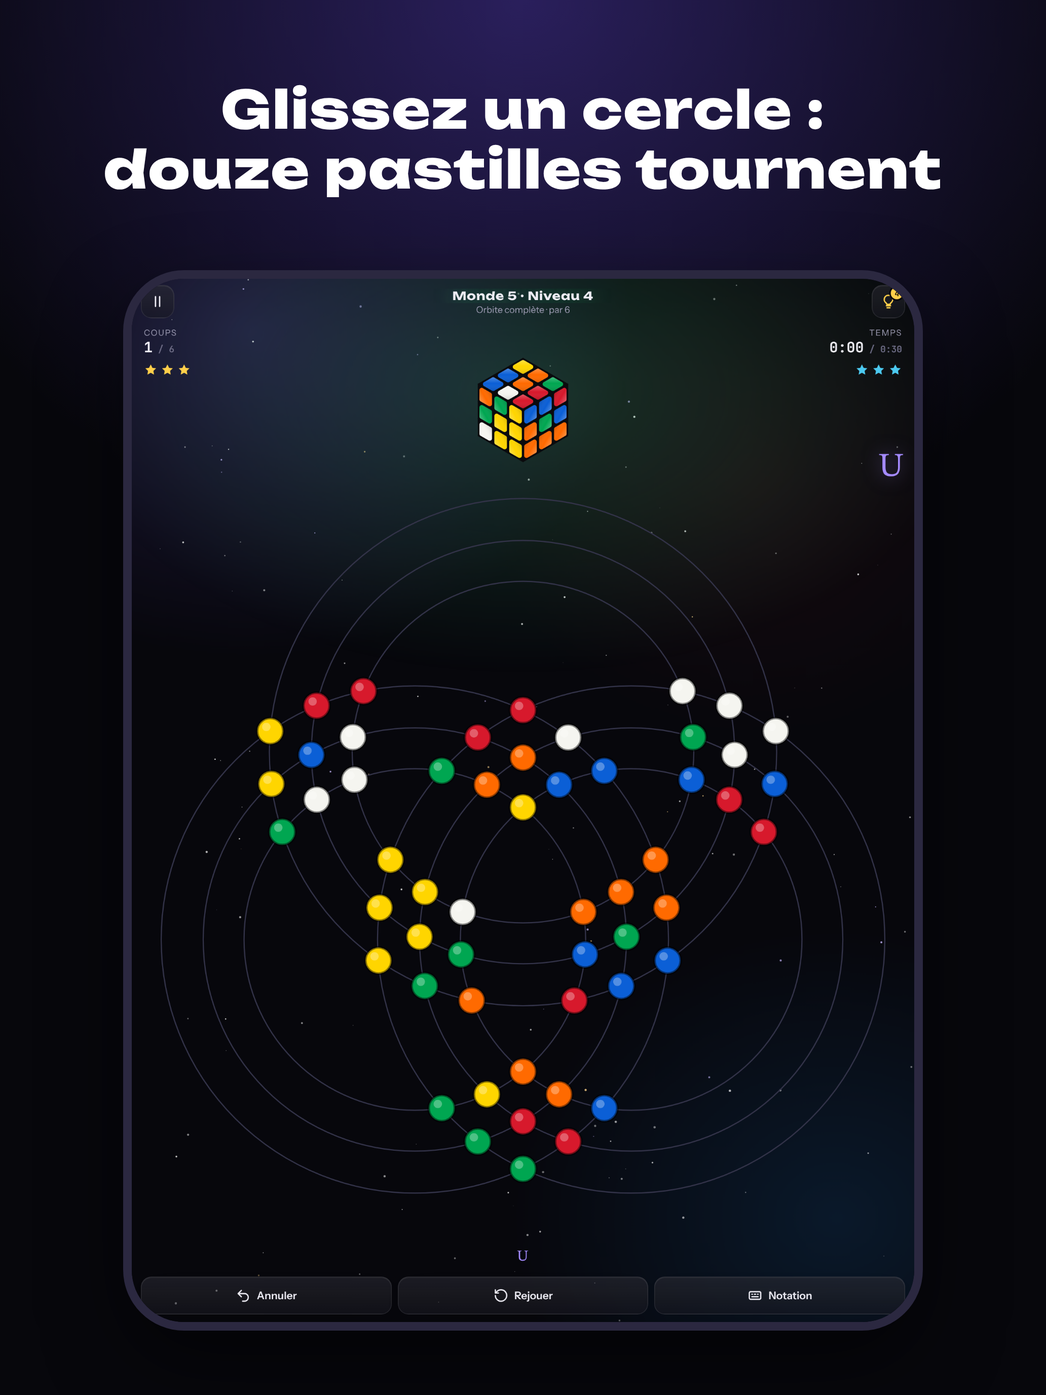
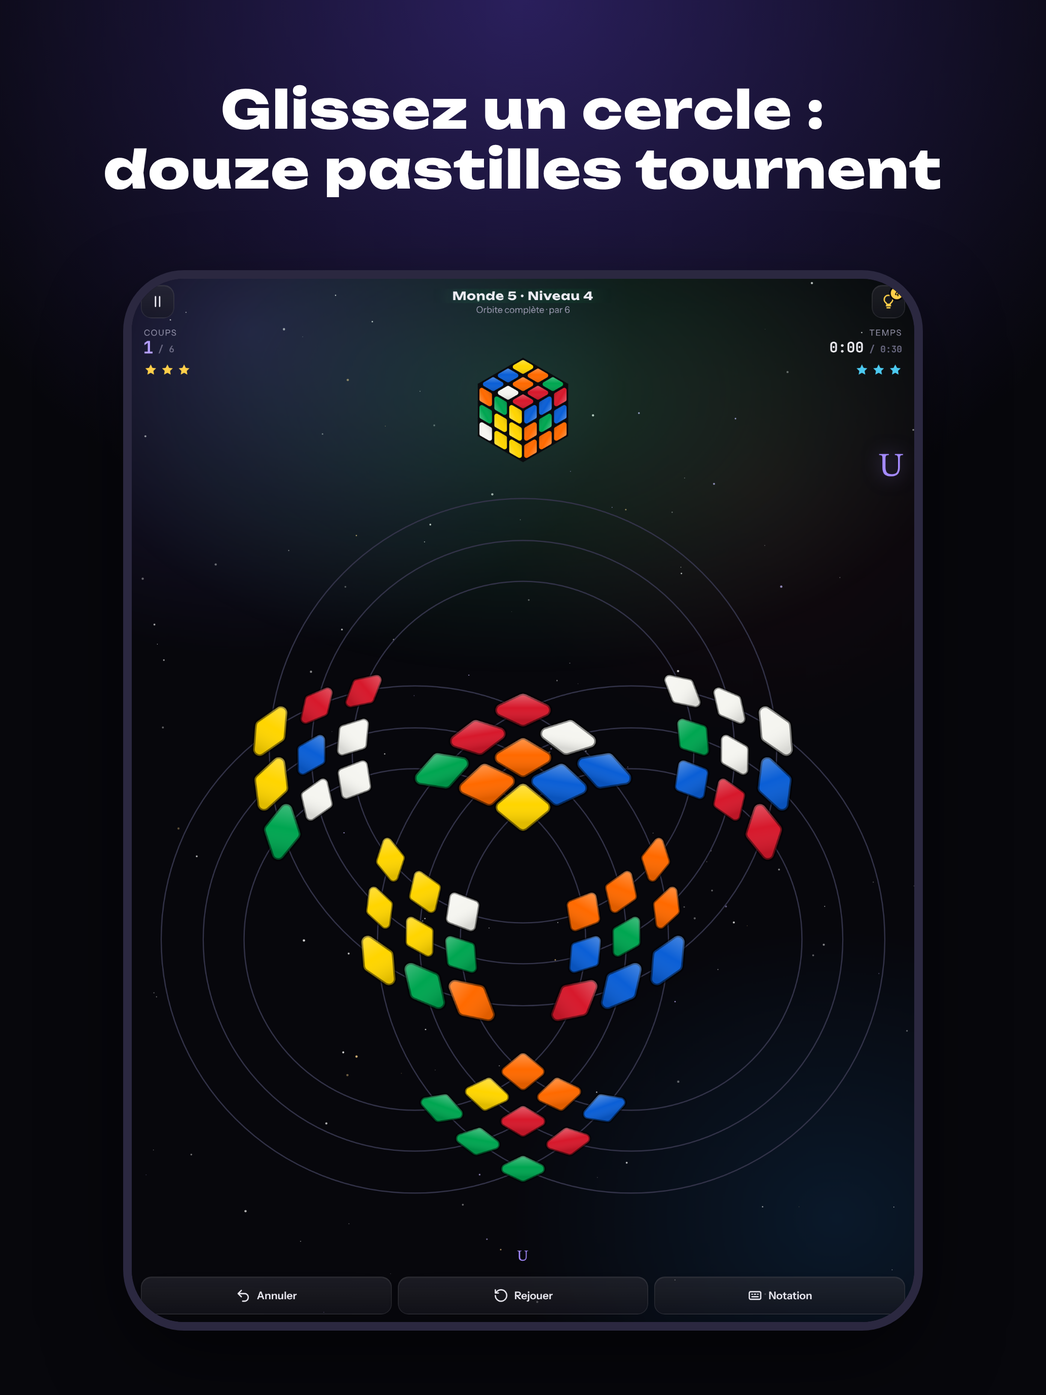
Pastilles en facettes de cube, et le cube en perspective pivote de nouveau au doigt
- Chaque pastille devient un losange dont les côtés suivent les deux cercles qui se croisent sous
  elle : les neuf d'une face dessinent une vraie face de cube en perspective. Pendant un tour, la
  forme du départ tourne avec le cercle et se fond dans celle de l'arrivée. Option « Pastilles » :
  Facettes (par défaut) ou Perles.
- Le cube en perspective se fait de nouveau pivoter en le glissant (gauche/droite, haut/bas), avec
  les corrections de la revue de code ; le tour de victoire repart de l'orientation choisie.

Claude-Session: https://claude.ai/code/session_0149xvqQAFsWoXJkF64USQEK

diff --git a/orbicube/www/index.html b/orbicube/www/index.html
@@ -167,7 +167,7 @@ a.bouton{text-decoration:none;color:inherit}
 /* le cube en perspective trône au centre, entre les coups et le temps, comme dans la visualisation de
    référence : sa taille (--cube) est la hauteur que le plateau laisse, calculée par redimJeu() */
 .jcube{display:grid;justify-items:center;gap:0;min-width:0;padding-top:14px}
-#mini{width:var(--cube,96px);height:var(--cube,96px);display:block;pointer-events:none}
+#mini{width:var(--cube,96px);height:var(--cube,96px);display:block;cursor:grab;touch-action:none}#mini:active{cursor:grabbing}
 .jinfo .stat{align-self:start;padding-top:6px}.jinfo .jetoiles{margin-top:8px}.jinfo .jetoiles svg{width:18px;height:18px}
 .coupgeant{position:absolute;right:14px;top:4px;font-family:var(--f-math);font-size:44px;color:var(--lilas);line-height:1;pointer-events:none;text-shadow:0 0 24px rgba(165,139,255,.5)}
 .fenetre .serie{color:var(--or);font-family:var(--f-chiffre);font-size:13px;margin:4px 0 0}
@@ -467,7 +467,7 @@ body.zen #jeu .jinfo .stat,body.zen #jeu .jetoiles{visibility:hidden}
     </div>
     <div class="jinfo">
       <div class="stat">Coups<b id="jCoups">0</b><div class="jetoiles" id="jEt" aria-label="Étoiles possibles"></div></div>
-      <div class="jcube"><canvas id="mini" aria-label="Cube en perspective"></canvas></div>
+      <div class="jcube"><canvas id="mini" aria-label="Cube en perspective, glissez pour le faire pivoter"></canvas></div>
       <div class="stat d">Temps<b id="jTemps">0:00</b><div class="jetoiles d" id="jEtT" aria-label="Étoiles de temps"></div></div>
     </div>
     <div class="plateau" id="zonePlateau">
@@ -512,7 +512,9 @@ body.zen #jeu .jinfo .stat,body.zen #jeu .jetoiles{visibility:hidden}
           <div class="segment" id="optVitesse"><button type="button" data-v="1.5">Lente</button><button type="button" data-v="1">Normale</button><button type="button" data-v="0.6">Rapide</button></div></div>
         <div class="ligne empile"><div class="lt"><b>Couleurs</b><span>« Contraste » est lisible par les daltoniens. Pastel se gagne avec les étoiles de coups, Néon avec celles de temps.</span></div>
           <div class="segment grille2" id="optPalette"><button type="button" data-v="classique">Classique</button><button type="button" data-v="contraste">Contraste</button><button type="button" data-v="pastel">Pastel</button><button type="button" data-v="neon">Néon</button></div></div>
-        <div class="ligne"><div class="lt"><b>Cube en perspective</b><span>Au-dessus du plateau, il suit chaque tour.</span></div>
+        <div class="ligne empile"><div class="lt"><b>Pastilles</b><span>Des facettes qui suivent les cercles, ou des perles.</span></div>
+          <div class="segment" id="optForme"><button type="button" data-v="facettes">Facettes</button><button type="button" data-v="perles">Perles</button></div></div>
+        <div class="ligne"><div class="lt"><b>Cube en perspective</b><span>Au-dessus du plateau : glissez-le pour le faire pivoter.</span></div>
           <label class="interrupteur"><input type="checkbox" id="optCube" role="switch" aria-label="Cube en perspective"><i></i></label></div>
         <div class="ligne"><div class="lt"><b>Mode zen</b><span>Ni chrono, ni compteur, ni étoiles pendant la partie.</span></div>
           <label class="interrupteur"><input type="checkbox" id="optZen" role="switch" aria-label="Mode zen"><i></i></label></div>
@@ -568,6 +570,7 @@ body.zen #jeu .jinfo .stat,body.zen #jeu .jetoiles{visibility:hidden}
       </div>
       <div class="aide-carte">
         <h3>Gagner des étoiles</h3>
+        <p data-html="aide-vue"><b>Glisser le cube</b> au-dessus du plateau le fait pivoter : à gauche ou à droite pour en faire le tour, vers le haut ou le bas pour voir la face du dessous.</p>
         <p data-html="aide-etoiles">Un niveau est résolu quand chaque groupe de neuf pastilles est d’une seule couleur. <b>Étoiles de coups</b> : trois en au plus autant de coups que le mélange (le « par »), deux jusqu’au double, une au-delà. <b>Étoiles de temps</b> : trois sous l’objectif affiché à côté du chrono, deux sous le double. Le bouton ampoule montre le tour suivant contre une <b>ampoule</b> de votre réserve, et limite le niveau à deux étoiles de coups. On regagne des ampoules avec le défi du jour, en terminant un monde ou en faisant trois étoiles de coups et de temps.</p>
         <p data-html="aide-clavier">Au clavier : <span class="m">U D L R F B M E S</span>, Maj pour le sens inverse, Ctrl+Z pour annuler, Échap pour la pause.</p>
       </div>
@@ -627,6 +630,10 @@ function inter(c1,r1,c2,r2){var dx=c2[0]-c1[0],dy=c2[1]-c1[1],d=Math.hypot(dx,dy
 S.forEach(function(s){var b=(s.a+1)%3,c=(s.a+2)%3,pts=inter(CEN[b],RAY[s.p[b]+1],CEN[c],RAY[s.p[c]+1]);
   var d=function(q){return Math.hypot(q[0]-CEN[s.a][0],q[1]-CEN[s.a][1]);};pts.sort(function(u,v){return d(u)-d(v);});s.xy=s.s>0?pts[0]:pts[1];});
 var CENTRE_FACE={},CLE_CENTRE={};S.forEach(function(s,i){if(s.p[(s.a+1)%3]===0&&s.p[(s.a+2)%3]===0){CENTRE_FACE[s.a+","+s.s]=s.xy;CLE_CENTRE[s.a+","+s.s]=i;}});
+// Forme des facettes : un losange dont les côtés suivent les deux cercles qui se croisent sous la pastille,
+// comme une case du cube vue en perspective. u et v sont les tangentes unitaires des deux cercles (repère du plateau).
+function tangente(p,c){var x=p[0]-c[0],y=p[1]-c[1],l=Math.hypot(x,y);return[-y/l,x/l];}
+var FORME=S.map(function(st){var b=(st.a+1)%3,c=(st.a+2)%3;return{u:tangente(st.xy,CEN[b]),v:tangente(st.xy,CEN[c])};});
 var RAYON_FACE=0;S.forEach(function(s){var c=CENTRE_FACE[s.a+","+s.s];RAYON_FACE=Math.max(RAYON_FACE,Math.hypot(s.xy[0]-c[0],s.xy[1]-c[1]));});RAYON_FACE+=.045;
 function angle(pt,c){return Math.atan2(pt[1]-c[1],pt[0]-c[0]);}
 function normA(d){while(d>Math.PI)d-=2*Math.PI;while(d<-Math.PI)d+=2*Math.PI;return d;}
@@ -666,8 +673,20 @@ Plateau.prototype.positionsA=function(t){var col=this.col,out=S.map(function(s,i
   if(!this.anim)return out;var mv=this.anim.mv,m=perm(mv.a,mv.L,mv.q),D=delta(mv.a,mv.L,mv.q);
   for(var k in m){var i=+k,j=m[i],s=S[i],f=s.a===mv.a,c=f?CENTRE_FACE[s.a+","+s.s]:CEN[mv.a];
     var a0=angle(S[i].xy,c),a1=angle(S[j].xy,c),r0=Math.hypot(S[i].xy[0]-c[0],S[i].xy[1]-c[1]),r1=Math.hypot(S[j].xy[0]-c[0],S[j].xy[1]-c[1]);
-    var aa=a0+D[i]*t,rr=r0+(r1-r0)*Math.min(1,t);out[i]={xy:[c[0]+rr*Math.cos(aa),c[1]+rr*Math.sin(aa)],c:col[i],m:true,f:f};}
+    var aa=a0+D[i]*t,rr=r0+(r1-r0)*Math.min(1,t);out[i]={xy:[c[0]+rr*Math.cos(aa),c[1]+rr*Math.sin(aa)],c:col[i],m:true,f:f,src:i,dst:j,rot:D[i]*t,t:Math.min(1,Math.max(0,t))};}
   return out;};
+// Forme d'une pastille à l'instant de l'animation : celle du départ, tournée avec le cercle, fondue dans celle
+// de l'arrivée (les deux côtés de l'arrivée sont appariés à ceux du départ, au signe près).
+function tourne(w,a){var c=Math.cos(a),s=Math.sin(a);return[w[0]*c-w[1]*s,w[0]*s+w[1]*c];}
+function formeA(p,i){if(!p.m)return FORME[i];var f0=FORME[p.src],f1=FORME[p.dst],u0=tourne(f0.u,p.rot),v0=tourne(f0.v,p.rot),u1=f1.u,v1=f1.v;
+  var dp=function(a,b){return a[0]*b[0]+a[1]*b[1];};if(Math.abs(dp(u0,v1))>Math.abs(dp(u0,u1))){var tmp=u1;u1=v1;v1=tmp;}
+  if(dp(u0,u1)<0)u1=[-u1[0],-u1[1]];if(dp(v0,v1)<0)v1=[-v1[0],-v1[1]];var e=ease(p.t);
+  return{u:[u0[0]+(u1[0]-u0[0])*e,u0[1]+(u1[1]-u0[1])*e],v:[v0[0]+(v1[0]-v0[0])*e,v0[1]+(v1[1]-v0[1])*e]};}
+function facette(cx,q,f,h,coul){var U=[f.u[0]*h,-f.u[1]*h],V=[f.v[0]*h,-f.v[1]*h],P=[[1,1],[1,-1],[-1,-1],[-1,1]].map(function(k){return[q[0]+k[0]*U[0]+k[1]*V[0],q[1]+k[0]*U[1]+k[1]*V[1]];});
+  var rr=h*.32;cx.beginPath();for(var n=0;n<4;n++){var A=P[(n+3)%4],B=P[n],C=P[(n+1)%4];if(!n)cx.moveTo((A[0]+B[0])/2,(A[1]+B[1])/2);cx.arcTo(B[0],B[1],(B[0]+C[0])/2,(B[1]+C[1])/2,rr);}cx.closePath();
+  cx.fillStyle=coul;cx.fill();cx.lineWidth=Math.max(1,h*.16);cx.strokeStyle="rgba(0,0,0,.5)";cx.stroke();
+  if(h>4){var hi=P.reduce(function(m,p){return p[1]<m[1]?p:m;}),g=cx.createLinearGradient(hi[0],hi[1],q[0]+(q[0]-hi[0])*.6,q[1]+(q[1]-hi[1])*.6);
+    g.addColorStop(0,"rgba(255,255,255,.32)");g.addColorStop(.55,"rgba(255,255,255,0)");g.addColorStop(1,"rgba(0,0,0,.12)");cx.fillStyle=g;cx.fill();}}
 Plateau.prototype.positions=function(){return this.positionsA(this.anim?this.anim.t:0);};
 Plateau.prototype.permisA=function(k){return !this.permis||!!this.permis[k];};
 Plateau.prototype.vivant=function(now){if(this.anim||this.indice||this.continu||this.eclats.length)return true;
@@ -718,9 +737,11 @@ Plateau.prototype.dessiner=function(now){var cx=this.cx,W=this.taille,E=this.ECH
   for(i=0;i<pos.length;i++){q=this.vers(pos[i].xy);var r=rp,pk=this.pops[i];
     if(pk!==undefined){var e=(now-pk)/280;if(e>=1)delete this.pops[i];else if(e>0)r=rp*(1+.32*Math.sin(e*Math.PI));}
     if(pos[i].m&&!CALME){cx.beginPath();cx.arc(q[0],q[1],r*1.9,0,Math.PI*2);cx.globalAlpha=.16;cx.fillStyle=COUL[pos[i].c];cx.fill();cx.globalAlpha=1;}
+    if(PROG.options.forme==="perles"){
     cx.beginPath();cx.arc(q[0],q[1],r,0,Math.PI*2);cx.fillStyle=COUL[pos[i].c];cx.fill();
     cx.lineWidth=Math.max(1,r*.2);cx.strokeStyle="rgba(0,0,0,.45)";cx.stroke();
     if(r>5){cx.beginPath();cx.arc(q[0]-r*.3,q[1]-r*.32,r*.32,0,Math.PI*2);cx.fillStyle="rgba(255,255,255,.3)";cx.fill();}}
+    else facette(cx,q,formeA(pos[i],i),r*1.2,COUL[pos[i].c]);}
   // ondes des faces complétées
   if(this.eclats.length)this.eclats=this.eclats.filter(function(ec){var e=(now-ec.t0)/800;if(e>=1)return false;var c=self.vers(ec.xy);
     cx.save();cx.beginPath();cx.arc(c[0],c[1],rp*2+E*.42*ease(e),0,Math.PI*2);cx.strokeStyle=COUL[ec.c];cx.globalAlpha=1-e;
@@ -983,9 +1004,27 @@ var NivP=new Plateau(document.getElementById("nivApercu"),{etiquettes:false});
 /* ========== 11. LA PARTIE ========== */
 var JeuP=new Plateau(document.getElementById("plateau"),{eclats:true});Ticker.actifs.push(JeuP);
 JeuP.onFace=function(n){if(!J||!J.pret||J.fini)return;bip(1047,.28,"sine",.07);bip(1568,.32,"sine",.05,.07);vibrer(12);};
-var mini=document.getElementById("mini"),miniC=mini.getContext("2d"),PIVOT=null,J=null;
+var mini=document.getElementById("mini"),miniC=mini.getContext("2d"),PIVOT={y:0,x:0},J=null;
 function dessinerMini(){if(!PROG.options.cube)return;var w=mini.clientWidth||84,px=Math.round(w*DPR);if(mini.width!==px){mini.width=px;mini.height=px;miniC.setTransform(DPR,0,0,DPR,0,0);}
   dessinerCube(miniC,w,JeuP.col,JeuP.anim,PIVOT);}
+// Le cube pivote au doigt : glisser à gauche ou à droite le fait tourner autour de la verticale, vers le
+// haut ou le bas le bascule pour montrer la face du dessous. Au lâcher, il se cale sur la vue la plus
+// proche (un quart de tour, ou retourné). Un simple appui ne fait rien : il ne tournait que dans un sens.
+(function(){var g=null,anim=0,attente=false;
+  function redessiner(){if(attente)return;attente=true;requestAnimationFrame(function(){attente=false;dessinerMini();});}
+  function norm(a){a%=2*Math.PI;return a<0?a+2*Math.PI:a;}
+  function caler(){var y0=PIVOT.y,x0=PIVOT.x,y1=Math.round(y0/(Math.PI/2))*Math.PI/2,x1=Math.round(x0/Math.PI)*Math.PI,t0=performance.now(),n=++anim;
+    (function pas(now){if(n!==anim)return;var k=Math.min(1,(now-t0)/260),e=ease(k);PIVOT={y:y0+(y1-y0)*e,x:x0+(x1-x0)*e};dessinerMini();
+      if(k<1)requestAnimationFrame(pas);else PIVOT={y:norm(y1),x:norm(x1)};})(t0);}
+  mini.addEventListener("pointerdown",function(e){if(e.button)return;anim++;g={x:e.clientX,y:e.clientY,bouge:false};try{mini.setPointerCapture(e.pointerId);}catch(_){}});
+  mini.addEventListener("pointermove",function(e){if(!g)return;if(e.pointerType==="mouse"&&!e.buttons){lacher();return;}
+    var dx=e.clientX-g.x,dy=e.clientY-g.y;if(!g.bouge){if(Math.hypot(dx,dy)<4)return;g.bouge=true;vibrer(6);}
+    // pas à pas : le sens horizontal suit la bascule du moment (retourné, la droite devient la gauche)
+    var k=(Math.PI/2)/(0.9*Math.max(60,mini.clientWidth)),sens=Math.cos(PIVOT.x)<0?-1:1;
+    PIVOT={y:PIVOT.y+sens*dx*k,x:PIVOT.x-dy*k};g.x=e.clientX;g.y=e.clientY;redessiner();});
+  function lacher(){if(!g)return;var b=g.bouge;g=null;if(!b)return;caler();
+    if(!PROG.tips.vue){PROG.tips.vue=1;sauver();}var bu=document.getElementById("bulle");if(!bu.hidden&&bu.dataset.tip==="vue")cacherBulle();}
+  mini.addEventListener("pointerup",lacher);mini.addEventListener("pointercancel",lacher);})();
 JeuP.apres=function(){dessinerMini();};
 setInterval(function(){if(ECRAN==="accueil")rafraichirAccueil();},60000);
 // le chrono avance tout seul dès le premier contact avec le plateau, en miroir du compteur de coups
@@ -1081,8 +1120,8 @@ function victoire(){J.fini=true;var temps=performance.now()-J.t0,n=J.hist.length
   Musique.effacer(3500);[0,1,2,3,4,5].forEach(function(k){bip(392*Math.pow(1.122,k),.12,"sine",.05,k*.075);});
   // les six faces s'illuminent l'une après l'autre, et le cube fait un tour complet sur lui-même
   Object.keys(CENTRE_FACE).forEach(function(k,i){setTimeout(function(){if(J!==jeton)return;JeuP.eclats.push({xy:CENTRE_FACE[k],c:JeuP.col[CLE_CENTRE[k]],t0:performance.now()});Ticker.reveiller();},CALME?0:420+i*110);});
-  if(!CALME)(function tour(now){if(J!==jeton){PIVOT=null;return;}var k=Math.min(1,(now-t0-200)/1100);if(k<0){requestAnimationFrame(tour);return;}
-    PIVOT={y:ease(k)*Math.PI*2,x:0};dessinerMini();if(k<1)requestAnimationFrame(tour);else{PIVOT=null;dessinerMini();}})(t0);
+  var base={y:PIVOT.y,x:PIVOT.x};if(!CALME)(function tour(now){if(J!==jeton){PIVOT=base;return;}var k=Math.min(1,(now-t0-200)/1100);if(k<0){requestAnimationFrame(tour);return;}
+    PIVOT={y:base.y+ease(k)*Math.PI*2,x:base.x};dessinerMini();if(k<1)requestAnimationFrame(tour);else{PIVOT=base;dessinerMini();}})(t0);
   setTimeout(function(){if(J!==jeton)return;sonVictoire();vibrer([20,40,20]);confettis();fenetreVictoire(e,n,temps,record);verifierSucces();},CALME?300:1150);}
 function fenetreVictoire(e,n,temps,record){var d=J.def,suiv=null;
   if(d.mode==="campagne"){if(d.i+1<MONDES[d.w].coups.length)suiv={w:d.w,i:d.i+1};else if(d.w+1<MONDES.length)suiv={w:d.w+1,i:0};}
@@ -1261,6 +1300,7 @@ function appliquerOptions(){var o=PROG.options;COUL=(apparenceOuverte(o.palette)
   document.getElementById("optSon").checked=o.son;document.getElementById("optVib").checked=o.vib;document.getElementById("optCube").checked=o.cube;
   document.getElementById("optPave").checked=o.pave;document.getElementById("optZen").checked=!!o.zen;document.getElementById("optMusique").checked=o.musique!==false;
   document.querySelectorAll("#optVolMusique button").forEach(function(b){b.classList.toggle("on",+b.dataset.v===(o.volMusique||2));});Musique.regler();document.body.classList.toggle("zen",!!o.zen);
+  document.querySelectorAll("#optForme button").forEach(function(b){b.classList.toggle("on",b.dataset.v===(o.forme||"facettes"));});
   document.querySelectorAll("#optVitesse button").forEach(function(b){b.classList.toggle("on",+b.dataset.v===o.vitesse);});
   document.querySelectorAll("#optPalette button").forEach(function(b){var v=b.dataset.v,ouv=apparenceOuverte(v),c=b.querySelector(".cad");
     b.classList.toggle("on",COUL===PALETTES[v]);b.classList.toggle("verrou",!ouv);
@@ -1272,6 +1312,7 @@ function opt(k,v){PROG.options[k]=v;PROG.options.maj=Date.now();sauver();appliqu
 [["Son","son"],["Vib","vib"],["Cube","cube"],["Pave","pave"],["Zen","zen"],["Musique","musique"]].forEach(function(c){
   document.getElementById("opt"+c[0]).addEventListener("change",function(){opt(c[1],this.checked);if(c[1]==="musique"&&this.checked){contexteAudio();Musique.lancer();}if(c[1]==="son"&&this.checked)sonClic();if(c[1]==="vib")vibrer(15);});});
 document.getElementById("optVitesse").addEventListener("click",function(e){var b=e.target.closest("button");if(b){opt("vitesse",+b.dataset.v);sonClic();}});
+document.getElementById("optForme").addEventListener("click",function(e){var b=e.target.closest("button");if(b){opt("forme",b.dataset.v);sonClic();rafraichirMondes&&document.getElementById("listeMondes").children.length&&rafraichirMondes();}});
 document.getElementById("optVolMusique").addEventListener("click",function(e){var b=e.target.closest("button");if(b){opt("volMusique",+b.dataset.v);sonClic();}});
 document.getElementById("optPalette").addEventListener("click",function(e){var b=e.target.closest("button");if(!b)return;
   if(!apparenceOuverte(b.dataset.v)){vibrer(20);toast(b.dataset.v==="neon"?"Néon":"Pastel",(APP_TEMPS[b.dataset.v]?"Débloqué à {0} étoiles de temps":"Débloqué à {0} étoiles de coups").replace("{0}",APPARENCES[b.dataset.v]));return;}opt("palette",b.dataset.v);sonClic();});

diff --git a/orbicube/www/langues.js b/orbicube/www/langues.js
@@ -146,6 +146,10 @@
     ["« Contraste » est lisible par les daltoniens. Pastel se gagne avec les étoiles de coups, Néon avec celles de temps.", "“Contrast” is colour-blind friendly. Pastel is earned with move stars, Neon with time stars.", "„Contrast” is leesbaar voor kleurenblinden. Pastel verdien je met zettensterren, Neon met tijdsterren.", "„Kontrast“ ist für Farbenblinde lesbar. Pastell gibt es für Zug-Sterne, Neon für Zeit-Sterne.", "«Contraste» es apta para daltónicos. Pastel se gana con estrellas de movimientos, Neón con las de tiempo."],
     ["Pastel", "Pastel", "Pastel", "Pastell", "Pastel"],
     ["Mode zen", "Zen mode", "Zenmodus", "Zen-Modus", "Modo zen"],
+    ["Pastilles", "Stickers", "Stickers", "Felder", "Pegatinas"],
+    ["Des facettes qui suivent les cercles, ou des perles.", "Facets that follow the circles, or beads.", "Vlakjes die de cirkels volgen, of parels.", "Facetten, die den Kreisen folgen, oder Perlen.", "Facetas que siguen los círculos, o perlas."],
+    ["Facettes", "Facets", "Vlakjes", "Facetten", "Facetas"],
+    ["Perles", "Beads", "Parels", "Perlen", "Perlas"],
     ["Plus d’ampoules", "Out of bulbs", "Geen lampjes meer", "Keine Glühbirnen mehr", "Sin bombillas"],
     ["Une ampoule revient dans {0} min.", "A bulb comes back in {0} min.", "Over {0} min krijg je een lampje terug.", "In {0} Min. kommt eine Glühbirne zurück.", "Una bombilla vuelve en {0} min."],
     ["Vous en gagnez aussi avec le défi du jour, en terminant un monde ou en faisant trois étoiles de coups et de temps.", "You also earn them with the daily challenge, by finishing a world or by getting three move stars and three time stars.", "Je verdient ze ook met de dagelijkse uitdaging, door een wereld af te maken of drie zet- en drie tijdsterren te halen.", "Du bekommst sie auch mit dem Tagesrätsel, wenn du eine Welt beendest oder drei Zug- und drei Zeit-Sterne holst.", "También se ganan con el reto diario, al terminar un mundo o con tres estrellas de movimientos y tres de tiempo."],
@@ -178,7 +182,8 @@
     ["Classique", "Classic", "Klassiek", "Klassisch", "Clásica"],
     ["Contraste", "Contrast", "Contrast", "Kontrast", "Contraste"],
     ["Cube en perspective", "3D cube", "3D-kubus", "3D-Würfel", "Cubo en 3D"],
-    ["Au-dessus du plateau, il suit chaque tour.", "Above the board, it follows every turn.", "Boven het bord; hij volgt elke draai.", "Über dem Brett; er folgt jeder Drehung.", "Encima del tablero, sigue cada giro."],
+    ["Au-dessus du plateau : glissez-le pour le faire pivoter.", "Above the board: swipe it to turn it around.", "Boven het bord: veeg om hem te draaien.", "Über dem Brett: wischen, um ihn zu drehen.", "Encima del tablero: deslízalo para girarlo."],
+    ["Cube en perspective, glissez pour le faire pivoter", "3D cube, swipe to turn it around", "3D-kubus, veeg om hem te draaien", "3D-Würfel, wischen zum Drehen", "Cubo en 3D, desliza para girarlo"],
     ["Pavé de notation", "Notation keypad", "Notatieknoppen", "Notationstasten", "Teclado de notación"],
     ["Des boutons U, R′… sous le plateau.", "U, R′… buttons under the board.", "Knoppen U, R′… onder het bord.", "Tasten U, R′… unter dem Brett.", "Botones U, R′… bajo el tablero."],
     ["Les 6 mondes, toute la partie libre.", "All 6 worlds and all of free play.", "De 6 werelden en heel vrij spel.", "Alle 6 Welten und das ganze freie Spiel.", "Los 6 mundos y todo el juego libre."],
@@ -258,6 +263,11 @@
       '<b>Veeg</b> langs een cirkel om hem in de richting van je vinger te draaien. Laat je vroeg los, dan veert hij terug.',
       '<b>Wische</b> an einem Kreis entlang, um ihn in Fingerrichtung zu drehen. Lässt du früh los, springt er zurück.',
       '<b>Desliza</b> por un círculo para girarlo en el sentido del dedo. Si sueltas pronto, vuelve a su sitio.'],
+    "aide-vue": [
+      '<b>Swipe the cube</b> above the board to turn it: left or right to go around it, up or down to see the bottom face.',
+      '<b>Veeg over de kubus</b> boven het bord om hem te draaien: links of rechts om eromheen te kijken, omhoog of omlaag voor de onderkant.',
+      '<b>Wische über den Würfel</b> über dem Brett, um ihn zu drehen: nach links oder rechts rundherum, nach oben oder unten für die Unterseite.',
+      '<b>Desliza el cubo</b> sobre el tablero para girarlo: a izquierda o derecha para rodearlo, arriba o abajo para ver la cara inferior.'],
     "aide-etoiles": [
       'A level is solved when every group of nine dots is a single colour. <b>Move stars</b>: three for no more moves than the scramble (the “par”), two up to twice that, one beyond. <b>Time stars</b>: three under the target shown next to the timer, two under twice that. The bulb button shows the next turn for one <b>bulb</b> from your stock, and limits the level to two move stars. You earn bulbs back with the daily challenge, by finishing a world or by getting three move stars and three time stars.',
       'Een level is opgelost als elke groep van negen bolletjes één kleur heeft. <b>Zettensterren</b>: drie met niet meer zetten dan de husseling (de „par”), twee tot het dubbele, één daarboven. <b>Tijdsterren</b>: drie onder het doel naast de klok, twee onder het dubbele. De lampknop toont de volgende draai voor één <b>lampje</b> uit je voorraad en beperkt het level tot twee zettensterren. Lampjes verdien je terug met de dagelijkse uitdaging, door een wereld af te maken of met drie zet- en drie tijdsterren.',

diff --git a/orbicube/www/sw.js b/orbicube/www/sw.js
@@ -1,6 +1,6 @@
 // Version web (PWA) : tout le jeu est mis en cache pour se jouer hors ligne.
 // Incrémenter V à chaque publication, sinon les joueurs gardent l'ancienne version.
-var V = "orbicube-v28";
+var V = "orbicube-v29";
 var FICHIERS = ["./", "index.html", "config.js", "natif.js", "langues.js", "manifest.webmanifest", "confidentialite.html",
   "icones/favicon.png", "icones/apple-touch-icon.png", "icones/icon-192.png", "icones/icon-512.png", "icones/icon-maskable-512.png",
   "polices/polices.css", "polices/Unbounded-normal-700.woff2", "polices/Unbounded-normal-800.woff2",

diff --git a/CLAUDE.md b/CLAUDE.md
@@ -56,9 +56,12 @@ contresens). Un contrôle neuf s'éprouve de la même façon avant d'être cru.
   « l'endroit optimal ») : le plateau prend d'abord la largeur moins 14 px de chaque côté, et `redimJeu()` donne au cube la
   hauteur qui reste (`--cube`, de 64 à 150 px). Pas en filigrane : des couleurs derrière les pastilles
   se confondraient avec elles.
-- **Seul le plateau se manipule, et seulement en glissant** (le client, le 11/10/2026) : un simple appui
-  sur un cercle ne tourne rien (il ne tournait que dans un sens), et le cube en perspective est une
-  image fixe qui suit les tours (`pointer-events:none`). Le parcours de test vérifie l'appui à vide.
+- **Le plateau se manipule en glissant** : un simple appui sur un cercle ne tourne rien (le parcours de test
+  le vérifie). **Le cube en perspective pivote au doigt** (redemandé par le client le 11/10/2026) : gauche/droite
+  autour de la verticale, haut/bas pour la face du dessous, calé au quart de tour au lâcher (`PIVOT`).
+- **Facettes** (option « Pastilles », par défaut) : chaque pastille est un losange dont les côtés suivent les
+  deux cercles qui se croisent sous elle (`FORME`, tangentes) ; pendant un tour, la forme du départ tourne
+  avec le cercle et se fond dans celle de l'arrivée (`formeA`). Les croisements font au moins 50°.
 - **Deux sortes d'étoiles** (le client, le 11/10/2026) : de coups (`etoilesPour`) et de temps
   (`etoilesTempsPour`, objectif `(par×4+6) s`, trois sous l'objectif, deux sous le double). Le chrono part
   au premier contact avec le plateau et avance seul (`majTemps`, toutes les 250 ms).
